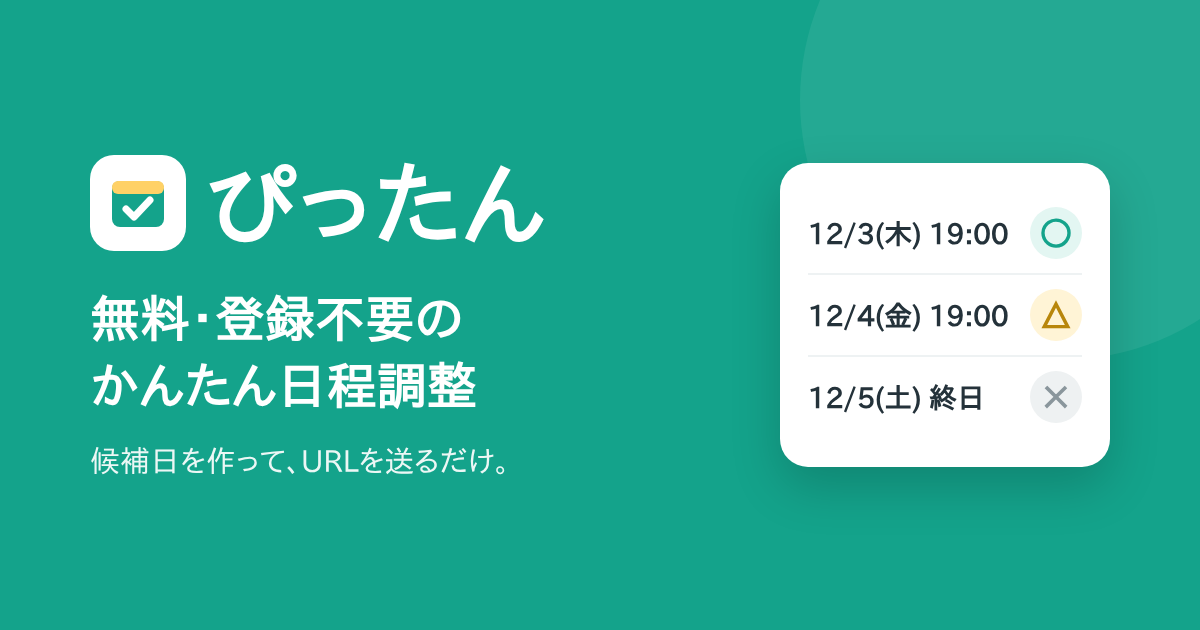
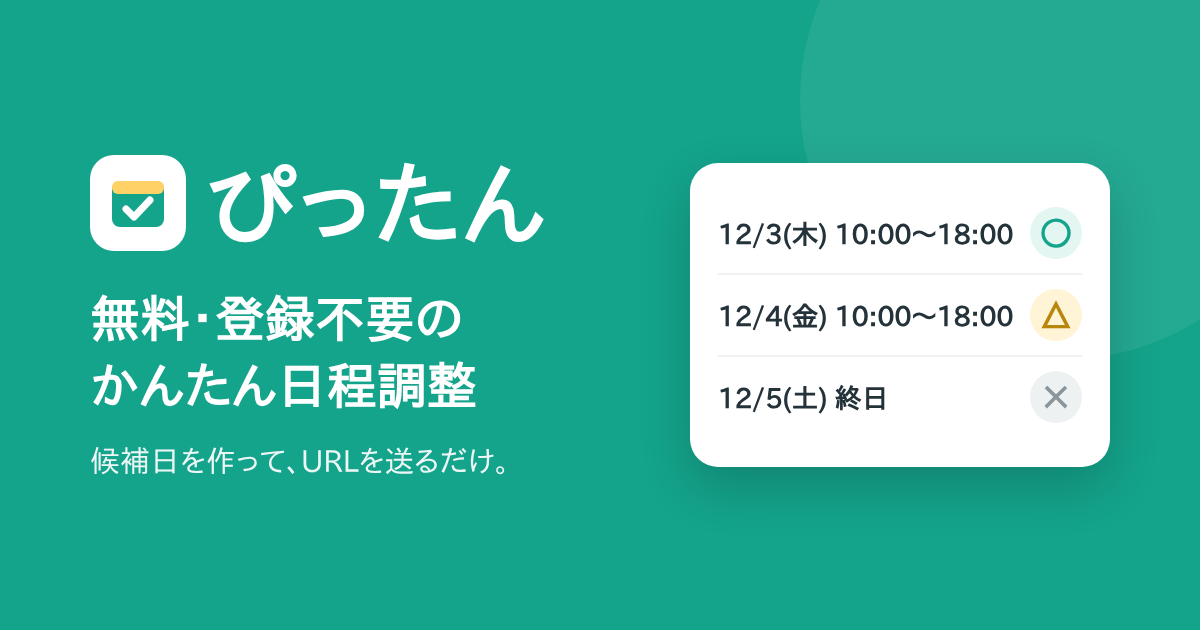
「基本の時間帯」のデフォルトを 10:00〜18:00 に変更
- 作成画面の基本の時間帯（初期値・全削除時の補充値）を 19:00〜21:00 から 10:00〜18:00 に
- 共有用画像（OGP）のサンプル時刻も 10:00〜18:00 に差し替え、SNS 等のキャッシュ更新のため og:image に ?v=2 を付与
- ブラウザのキャッシュで古い app.js が使われないよう読み込みバージョンを更新、sitemap の lastmod を更新

Claude-Session: https://claude.ai/code/session_01SjAeHfEEDzVDQtTdZE3CKF

Changed region(s): [[0.555, 0.2413, 0.8633, 0.754]]

diff --git a/docs/js/app.js b/docs/js/app.js
@@ -217,7 +217,7 @@
       days: {},
       free: [],
       useTime: true,
-      defaults: [{ start: '19:00', end: '21:00' }],
+      defaults: [{ start: '10:00', end: '18:00' }],
       month: new Date(now.getFullYear(), now.getMonth(), 1),
     };
     if (editing) {
@@ -414,7 +414,7 @@
         '<div class="def-actions"><button type="button" class="link-btn" id="addDef">＋ 時間帯を追加</button>' +
         '<button type="button" class="btn sm" id="applyAll"' + (sortedDates().length ? '' : ' disabled') + '>選択中の全日付をこの時間にする</button></div></div>';
       bindSlotRows($defaults, function () { return st.defaults; }, function () {
-        if (!st.defaults.length) st.defaults.push({ start: '19:00', end: '21:00' });
+        if (!st.defaults.length) st.defaults.push({ start: '10:00', end: '18:00' });
         renderDefaults();
       });
       document.getElementById('addDef').onclick = function () {

diff --git a/docs/index.html b/docs/index.html
@@ -22,7 +22,7 @@
   <meta property="og:type" content="website">
   <meta property="og:site_name" content="ぴったん">
   <meta property="og:locale" content="ja_JP">
-  <meta property="og:image" content="https://pittan.pages.dev/ogp.png">
+  <meta property="og:image" content="https://pittan.pages.dev/ogp.png?v=2">
   <meta property="og:image:width" content="1200">
   <meta property="og:image:height" content="630">
   <meta property="og:image:alt" content="ぴったん — 無料・登録不要のかんたん日程調整">
@@ -94,6 +94,6 @@
   <script src="js/core.js?v=8"></script>
   <script src="js/secure.js?v=8"></script>
   <script src="js/api.js?v=8"></script>
-  <script src="js/app.js?v=9"></script>
+  <script src="js/app.js?v=10"></script>
 </body>
 </html>
